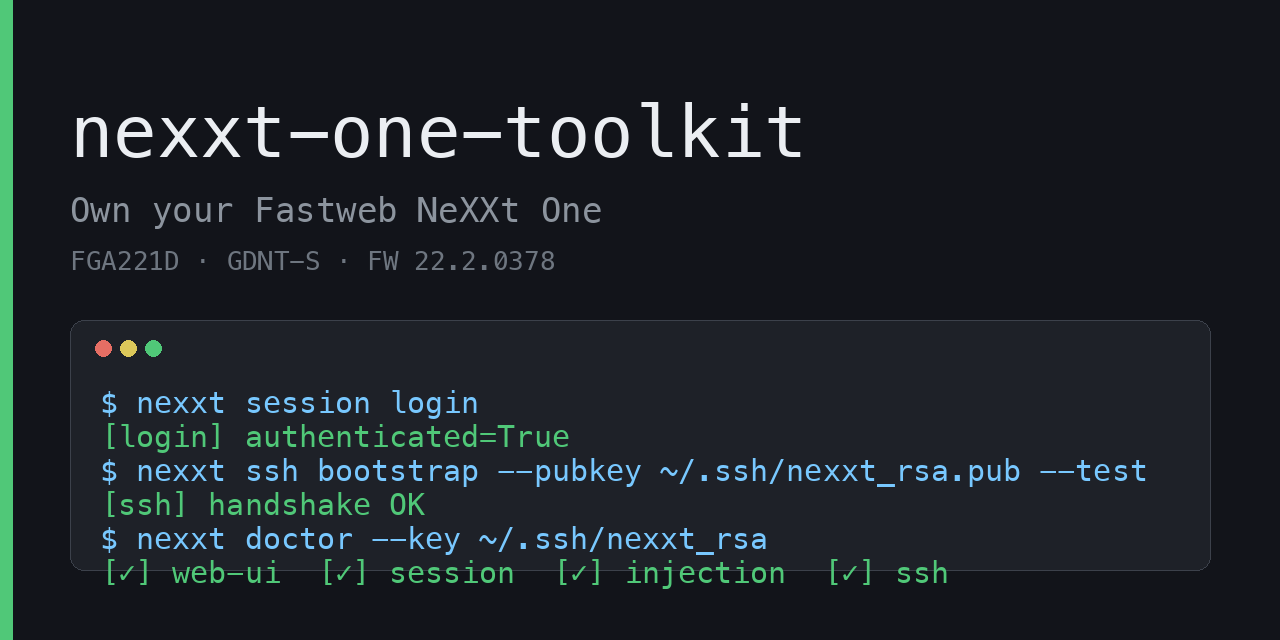
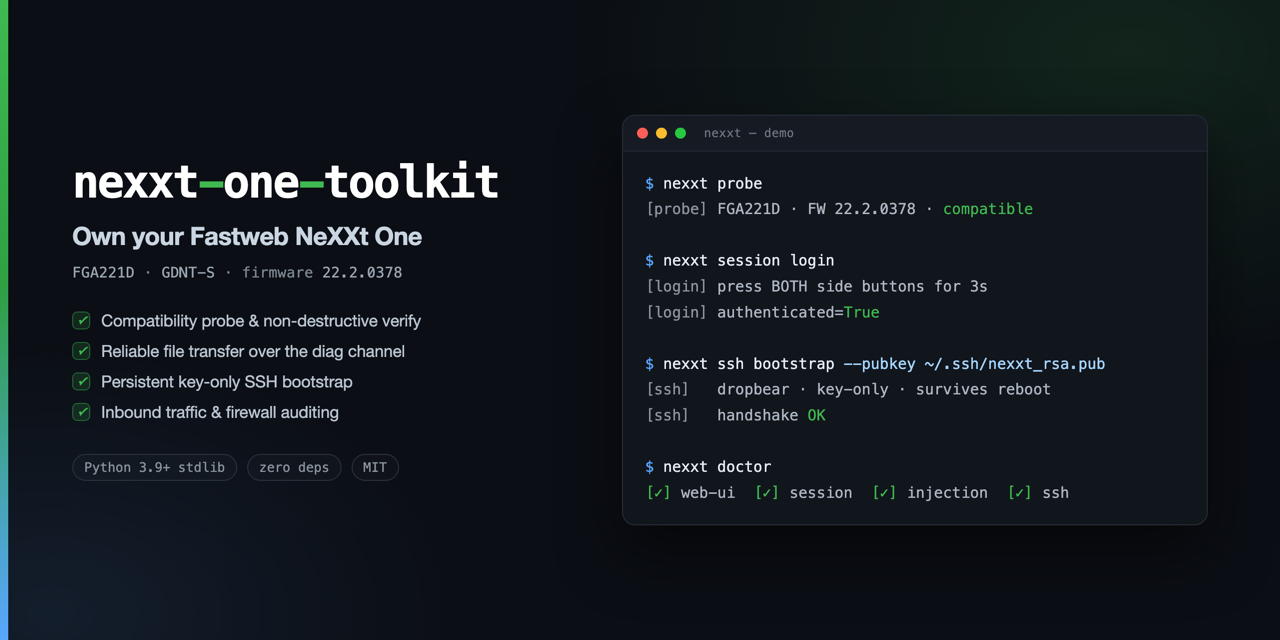
docs: redesign social preview card
Replace the social preview with a 1280x640 two-column card: wordmark,
tagline, device/firmware line, four capability lines and a fully
contained terminal pane. The previous image clipped its last line.

Keep the HTML source next to the PNG so the card can be regenerated:
  chrome --headless --force-device-scale-factor=2 \
    --window-size=1280,640 --screenshot=out.png social-preview.html
  sips -z 640 1280 out.png --out social-preview.png

diff --git a/.github/social-preview.html b/.github/social-preview.html
@@ -1,0 +1,121 @@
+<!doctype html>
+<meta charset="utf-8">
+<style>
+  * { margin:0; padding:0; box-sizing:border-box; }
+  html,body { width:1280px; height:640px; overflow:hidden; }
+  body {
+    background:
+      radial-gradient(900px 520px at 88% 8%, rgba(63,185,80,.13), transparent 62%),
+      radial-gradient(700px 460px at 4% 96%, rgba(88,166,255,.10), transparent 60%),
+      #0b0e14;
+    color:#e6edf3;
+    font-family:-apple-system,"Helvetica Neue",sans-serif;
+    display:flex; align-items:center;
+    padding:0 72px; gap:52px;
+    position:relative;
+  }
+  /* left accent rail */
+  body::before{
+    content:""; position:absolute; left:0; top:0; bottom:0; width:8px;
+    background:linear-gradient(180deg,#3fb950 0%,#2ea043 45%,#58a6ff 100%);
+  }
+  .left { width:498px; flex:none; }
+
+  .wordmark{
+    font-family:"SF Mono",Menlo,monospace;
+    font-size:45px; font-weight:700; letter-spacing:-2px;
+    line-height:1; color:#fff; white-space:nowrap;
+  }
+  .wordmark .dash{ color:#3fb950; }
+  .tagline{
+    margin-top:16px; font-size:25px; font-weight:600;
+    letter-spacing:-.4px; color:#c9d5e1;
+  }
+  .device{
+    margin-top:13px; font-family:"SF Mono",Menlo,monospace;
+    font-size:14.5px; letter-spacing:.2px; color:#7d8791;
+  }
+  .device b{ color:#9aa5b1; font-weight:500; }
+
+  .feats{ margin-top:30px; display:flex; flex-direction:column; gap:11px; }
+  .feat{ display:flex; align-items:center; gap:11px; font-size:16.5px; color:#b9c4d0; letter-spacing:-.1px; }
+  .tick{
+    flex:none; width:18px; height:18px; border-radius:5px;
+    background:rgba(63,185,80,.15); border:1px solid rgba(63,185,80,.42);
+    color:#3fb950; font-size:11px; font-weight:700;
+    display:flex; align-items:center; justify-content:center; line-height:1;
+  }
+  .foot{
+    margin-top:32px; display:flex; align-items:center; gap:10px;
+    font-family:"SF Mono",Menlo,monospace; font-size:13px; color:#6e7681;
+  }
+  .pill{
+    border:1px solid #2b323c; border-radius:999px; padding:5px 11px;
+    color:#8b949e; background:rgba(255,255,255,.02);
+  }
+
+  /* terminal */
+  .term{
+    flex:1; align-self:center;
+    background:#11151c; border:1px solid #262d38; border-radius:13px;
+    box-shadow:0 26px 60px rgba(0,0,0,.5);
+    display:flex; flex-direction:column; overflow:hidden;
+  }
+  .bar{
+    height:36px; flex:none; display:flex; align-items:center; gap:8px;
+    padding:0 14px; background:#161b23; border-bottom:1px solid #232a34;
+  }
+  .dot{ width:11px; height:11px; border-radius:50%; }
+  .bar span{
+    margin-left:10px; font-family:"SF Mono",Menlo,monospace;
+    font-size:12px; color:#6e7681; letter-spacing:.3px;
+  }
+  .body{
+    flex:1; padding:19px 22px;
+    font-family:"SF Mono",Menlo,monospace;
+    font-size:15px; line-height:1.72; white-space:pre; color:#adb7c2;
+  }
+  .p{ color:#58a6ff; } .c{ color:#e6edf3; } .f{ color:#a5d6ff; }
+  .ok{ color:#3fb950; } .tag{ color:#8b949e; } .warnless{ color:#d29922; }
+</style>
+
+<div class="left">
+  <div class="wordmark">nexxt<span class="dash">-</span>one<span class="dash">-</span>toolkit</div>
+  <div class="tagline">Own your Fastweb NeXXt One</div>
+  <div class="device"><b>FGA221D</b> · <b>GDNT-S</b> · firmware <b>22.2.0378</b></div>
+
+  <div class="feats">
+    <div class="feat"><i class="tick">✓</i>Compatibility probe &amp; non-destructive verify</div>
+    <div class="feat"><i class="tick">✓</i>Reliable file transfer over the diag channel</div>
+    <div class="feat"><i class="tick">✓</i>Persistent key-only SSH bootstrap</div>
+    <div class="feat"><i class="tick">✓</i>Inbound traffic &amp; firewall auditing</div>
+  </div>
+
+  <div class="foot">
+    <span class="pill">Python 3.9+ stdlib</span>
+    <span class="pill">zero deps</span>
+    <span class="pill">MIT</span>
+  </div>
+</div>
+
+<div class="term">
+  <div class="bar">
+    <i class="dot" style="background:#ff5f57"></i>
+    <i class="dot" style="background:#febc2e"></i>
+    <i class="dot" style="background:#28c840"></i>
+    <span>nexxt — demo</span>
+  </div>
+  <div class="body"><span class="p">$</span> <span class="c">nexxt probe</span>
+<span class="tag">[probe]</span> FGA221D · FW 22.2.0378 · <span class="ok">compatible</span>
+
+<span class="p">$</span> <span class="c">nexxt session login</span>
+<span class="tag">[login]</span> press BOTH side buttons for 3s
+<span class="tag">[login]</span> authenticated=<span class="ok">True</span>
+
+<span class="p">$</span> <span class="c">nexxt ssh bootstrap</span> <span class="f">--pubkey ~/.ssh/nexxt_rsa.pub</span>
+<span class="tag">[ssh]</span>   dropbear · key-only · survives reboot
+<span class="tag">[ssh]</span>   handshake <span class="ok">OK</span>
+
+<span class="p">$</span> <span class="c">nexxt doctor</span>
+<span class="ok">[✓]</span> web-ui  <span class="ok">[✓]</span> session  <span class="ok">[✓]</span> injection  <span class="ok">[✓]</span> ssh</div>
+</div>
